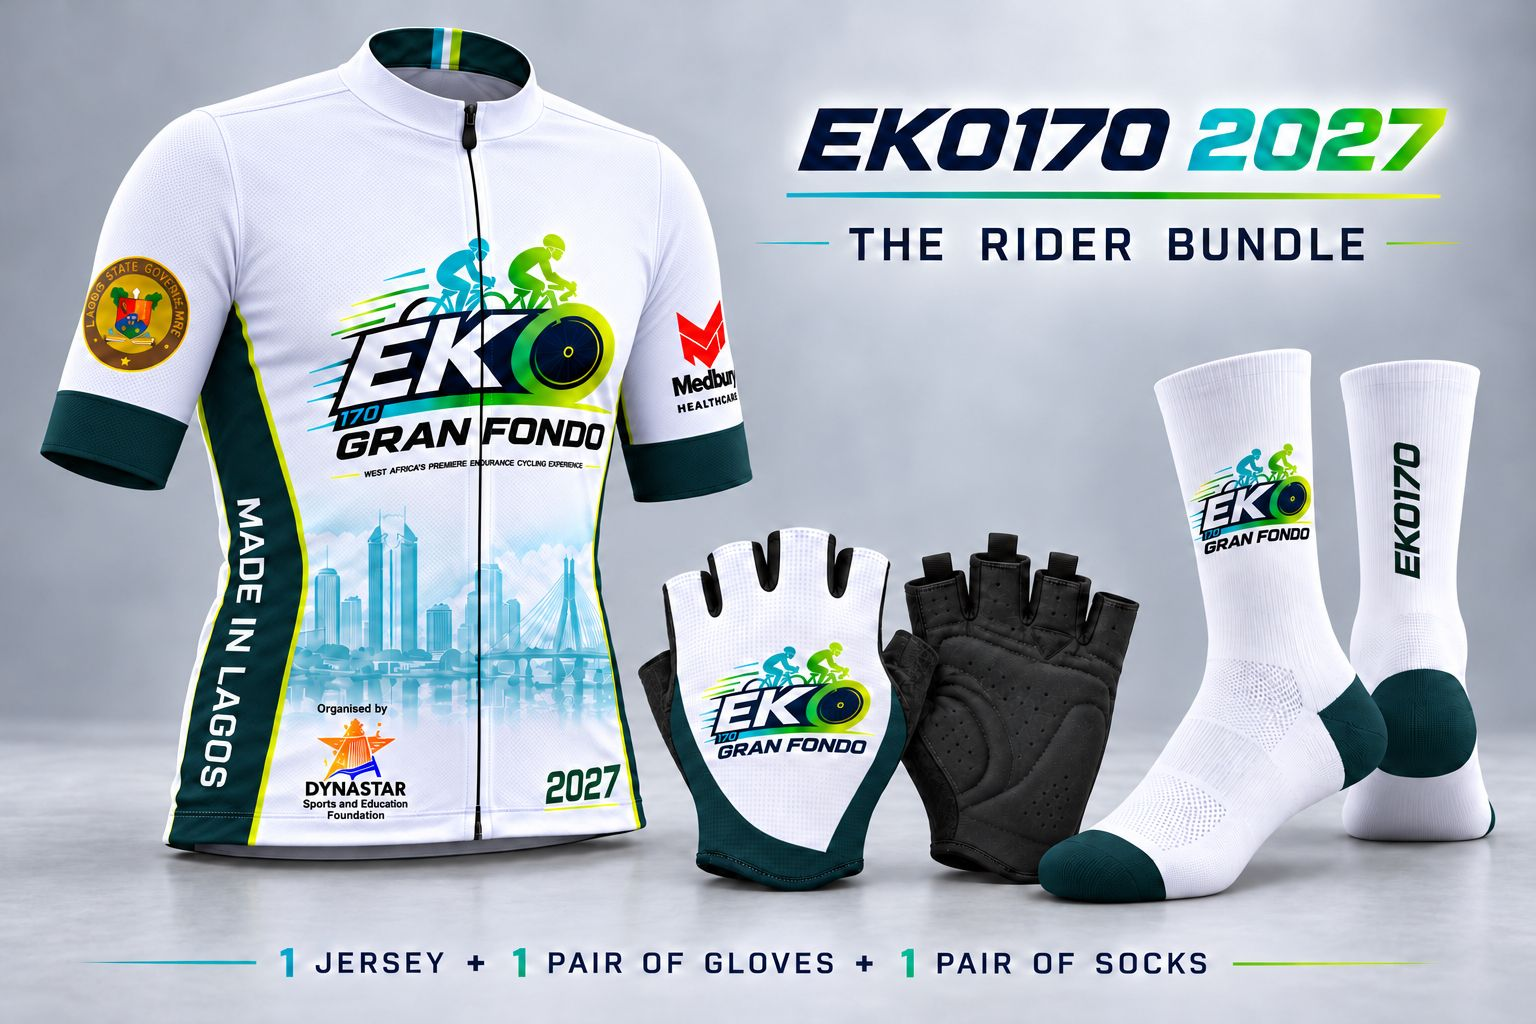
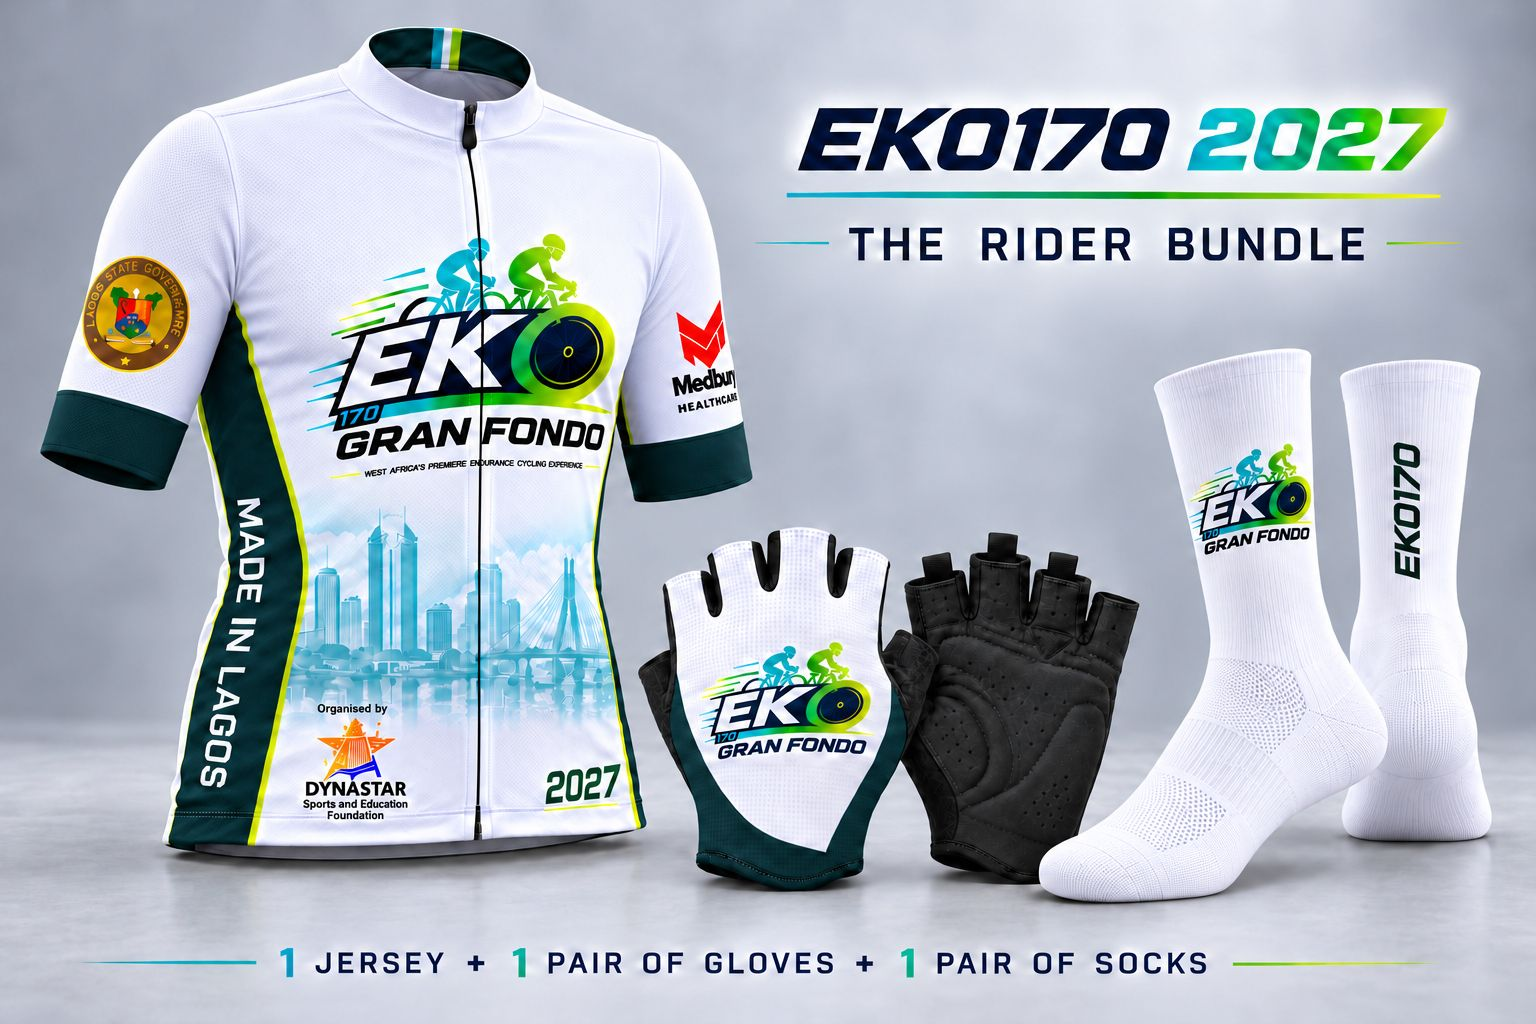
chore(shop): update Rider Bundle product photo

diff --git a/CHANGELOG.md b/CHANGELOG.md
@@ -57,6 +57,8 @@ and this project adheres to [Semantic Versioning](https://semver.org/spec/v2.0.0
 - Home's "Full Race Details" links, the footer's "The Race"/"Route"/
   "Rider Information" links, and every other link that pointed at the
   retired `/routes` overview page now go to `/routes/170`.
+- Updated the Rider Bundle product photo
+  (`public/images/shop/rider bundle.jpeg`).
 
 ### Removed
 - The `/routes` overview page is deleted — its hero, course overview,
